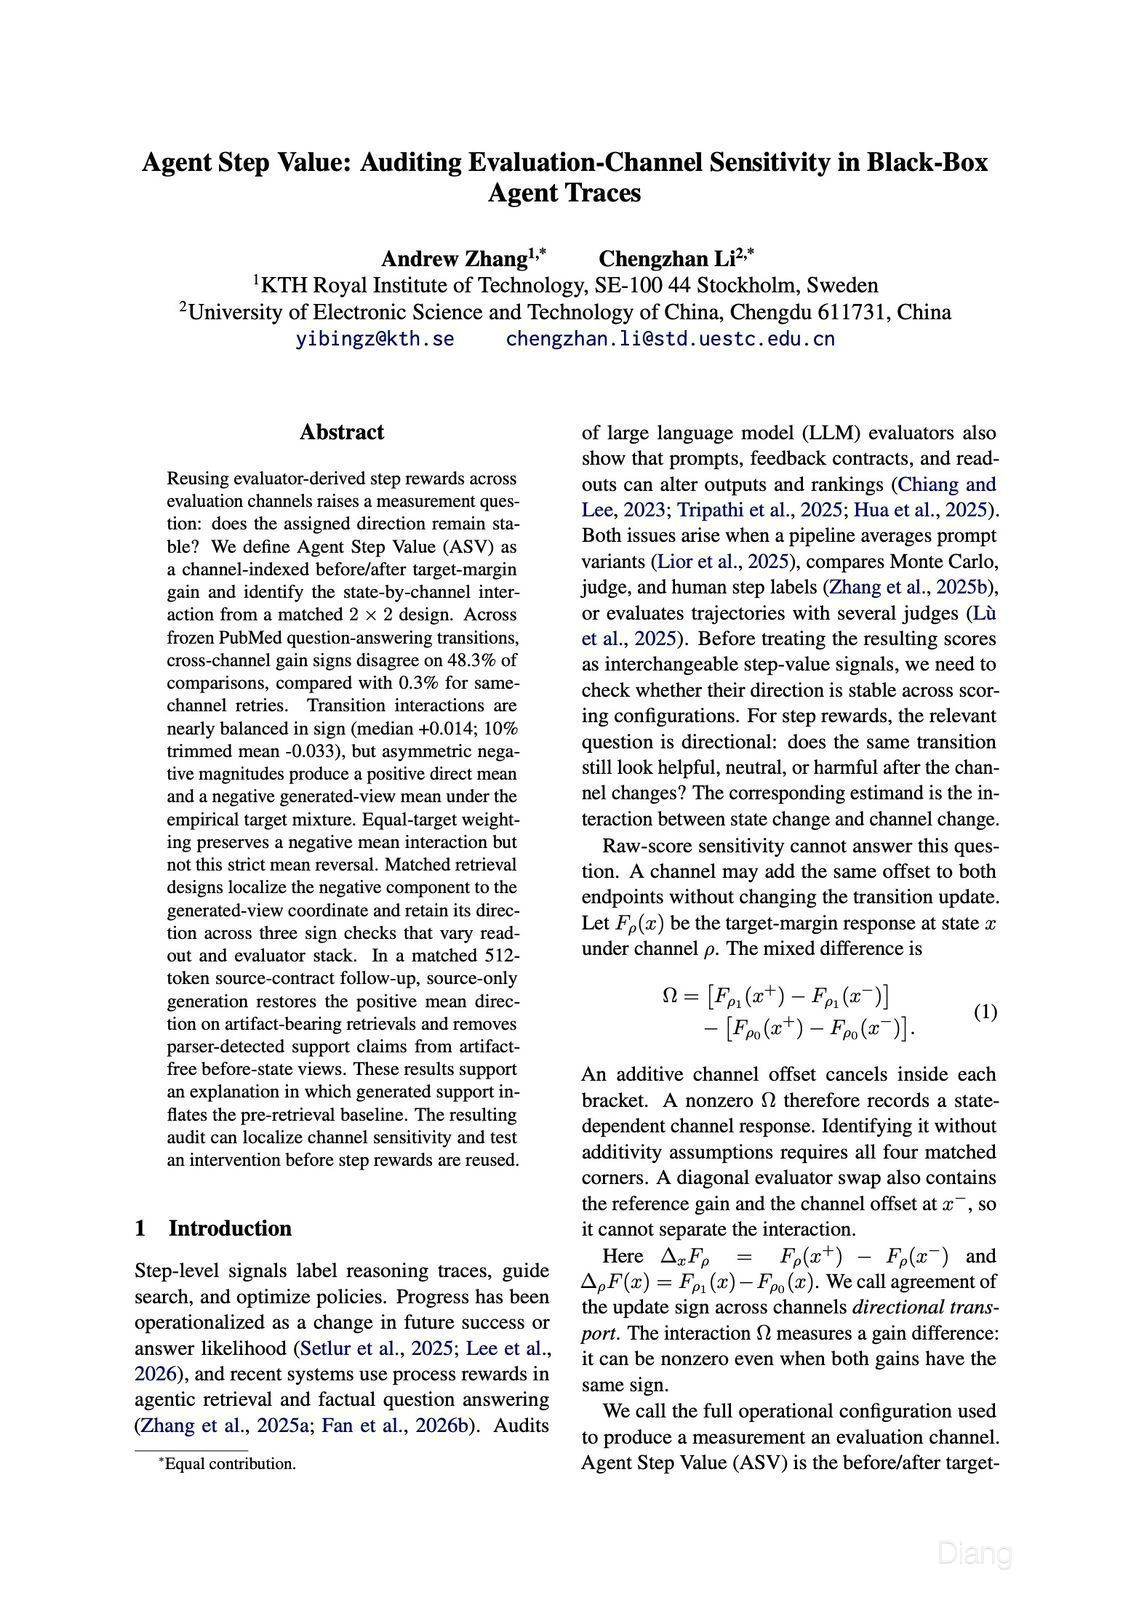
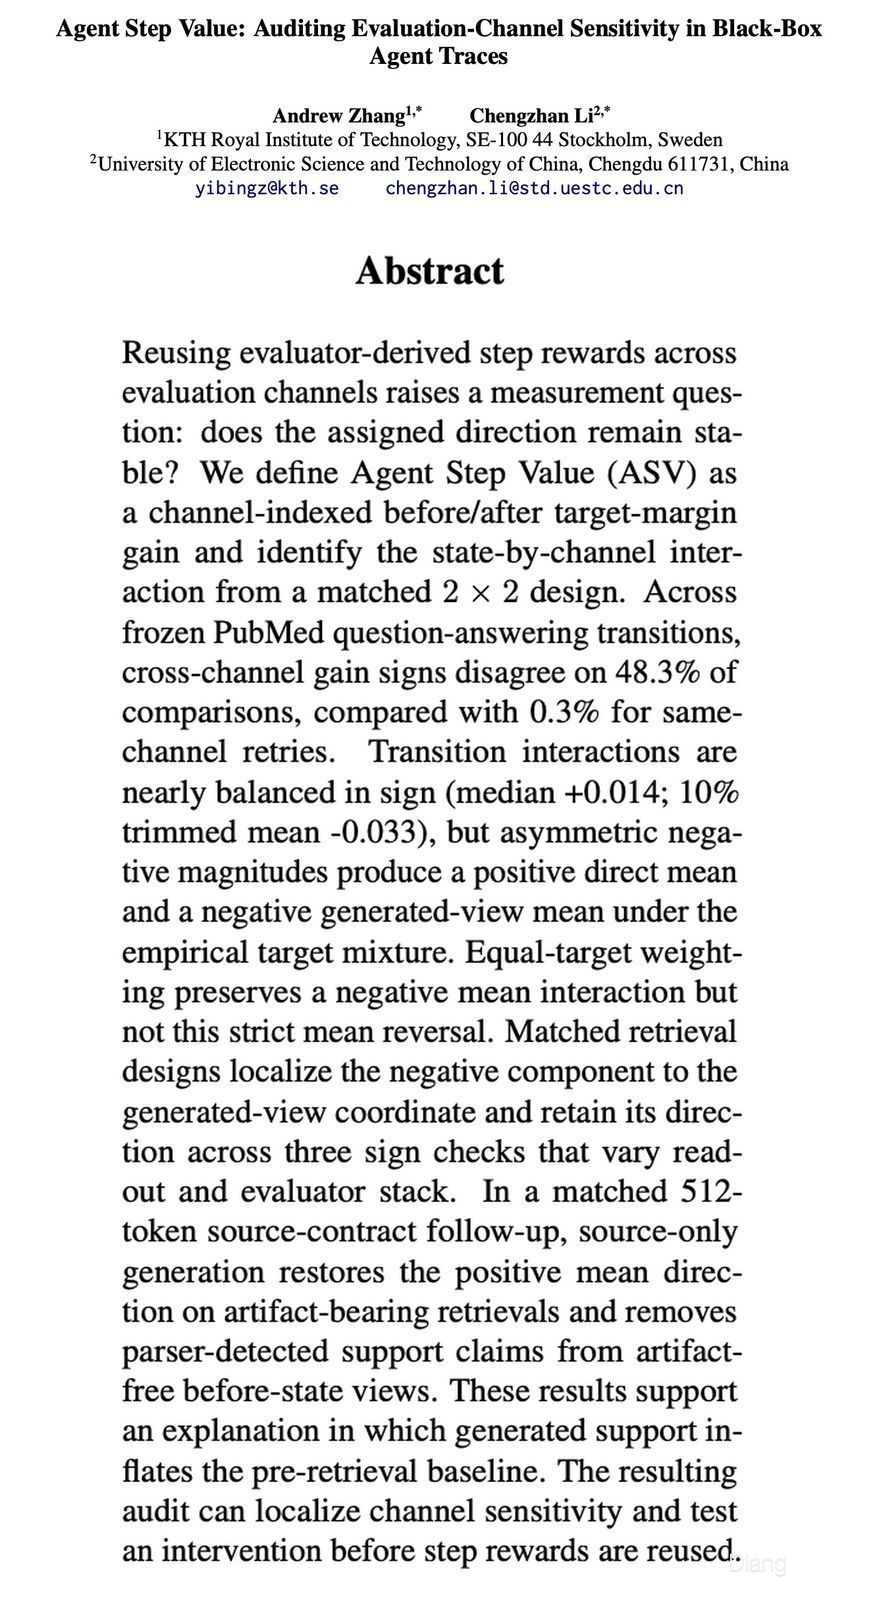
Site updated: 2026-10-14 17:55:52

Changed region(s): [[0.1229, 0.1562, 0.8908, 1.0], [0.0614, 0.0, 0.9215, 0.125]]

diff --git a/2026/10/14/agent-step-value/index.html b/2026/10/14/agent-step-value/index.html
@@ -22,21 +22,21 @@
 
 <script class="next-config" data-name="main" type="application/json">{"hostname":"leecdiang.github.io","root":"/","images":"/images","scheme":"Gemini","darkmode":true,"version":"8.25.0","exturl":false,"sidebar":{"position":"left","width_expanded":320,"width_dual_column":240,"display":"always","padding":18,"offset":12},"hljswrap":true,"codeblock":{"theme":{"light":"default","dark":"stackoverflow-dark"},"prism":{"light":"prism","dark":"prism-dark"},"copy_button":{"enable":true,"style":"Default"},"fold":{"enable":true,"height":500},"language":false},"bookmark":{"enable":false,"color":"#222","save":"auto"},"mediumzoom":false,"lazyload":true,"pangu":false,"comments":{"style":"tabs","active":"waline","storage":true,"lazyload":false,"nav":{"waline":{"text":"评论","order":-2}}},"stickytabs":false,"motion":{"enable":true,"async":false,"duration":200,"transition":{"menu_item":"fadeInDown","post_block":"fadeIn","post_header":"fadeInDown","post_body":"fadeInDown","coll_header":"fadeInLeft","sidebar":"fadeInUp"}},"i18n":{"placeholder":"Searching...","empty":"We didn't find any results for the search: ${query}","hits_time":"${hits} results found in ${time} ms","hits":"${hits} results found"}}</script><script src="/js/config.js" defer></script>
 
-    <meta name="description" content="Our REALM @ EMNLP 2026 poster studies why the same frozen agent step can receive opposite reward signs across evaluation channels, and how a matched audit can locate and test that sensitivity.">
+    <meta name="description" content="Why the same frozen agent step can receive opposite reward signs across evaluation channels, and how a matched audit can locate and test that sensitivity.">
 <meta property="og:type" content="article">
 <meta property="og:title" content="Agent Step Value: When the evaluator changes the value of a step">
 <meta property="og:url" content="https://leecdiang.github.io/2026/10/14/agent-step-value/index.html">
 <meta property="og:site_name" content="Beyond the Clock">
-<meta property="og:description" content="Our REALM @ EMNLP 2026 poster studies why the same frozen agent step can receive opposite reward signs across evaluation channels, and how a matched audit can locate and test that sensitivity.">
+<meta property="og:description" content="Why the same frozen agent step can receive opposite reward signs across evaluation channels, and how a matched audit can locate and test that sensitivity.">
 <meta property="og:locale" content="en_US">
-<meta property="og:image" content="https://leecdiang.github.io/2026/10/14/agent-step-value/paper-title-abstract.jpg">
+<meta property="og:image" content="https://leecdiang.github.io/2026/10/14/agent-step-value/paper-title.jpg">
 <meta property="og:image" content="https://leecdiang.github.io/2026/10/14/agent-step-value/asv-mechanics.jpg">
 <meta property="og:image" content="https://leecdiang.github.io/2026/10/14/agent-step-value/asv-pipeline.jpg">
 <meta property="og:image" content="https://leecdiang.github.io/2026/10/14/agent-step-value/effect-anatomy.jpg">
 <meta property="og:image" content="https://leecdiang.github.io/2026/10/14/agent-step-value/retrieval-decomposition.jpg">
 <meta property="og:image" content="https://leecdiang.github.io/2026/10/14/agent-step-value/matched-bridge-results.jpg">
 <meta property="article:published_time" content="2026-10-14T07:26:00.000Z">
-<meta property="article:modified_time" content="2026-10-14T09:14:38.831Z">
+<meta property="article:modified_time" content="2026-10-14T09:54:39.473Z">
 <meta property="article:author" content="LEEcDiang">
 <meta property="article:tag" content="Agent Step Value">
 <meta property="article:tag" content="EMNLP 2026">
@@ -44,7 +44,7 @@
 <meta property="article:tag" content="LLM Agents">
 <meta property="article:tag" content="REALM">
 <meta name="twitter:card" content="summary">
-<meta name="twitter:image" content="https://leecdiang.github.io/2026/10/14/agent-step-value/paper-title-abstract.jpg">
+<meta name="twitter:image" content="https://leecdiang.github.io/2026/10/14/agent-step-value/paper-title.jpg">
 
 
 <link rel="canonical" href="https://leecdiang.github.io/2026/10/14/agent-step-value/">
@@ -199,7 +199,7 @@
 
     <span hidden itemprop="post" itemscope itemtype="http://schema.org/CreativeWork">
       <meta itemprop="name" content="Agent Step Value: When the evaluator changes the value of a step | Beyond the Clock">
-      <meta itemprop="description" content="Our REALM @ EMNLP 2026 poster studies why the same frozen agent step can receive opposite reward signs across evaluation channels, and how a matched audit can locate and test that sensitivity.">
+      <meta itemprop="description" content="Why the same frozen agent step can receive opposite reward signs across evaluation channels, and how a matched audit can locate and test that sensitivity.">
     </span>
       <header class="post-header">
         <h1 class="post-title" itemprop="name headline">
@@ -212,15 +212,19 @@
   
 </div>
 
-            <div class="post-description">Our REALM @ EMNLP 2026 poster studies why the same frozen agent step can receive opposite reward signs across evaluation channels, and how a matched audit can locate and test that sensitivity.</div>
+            <div class="post-description">Why the same frozen agent step can receive opposite reward signs across evaluation channels, and how a matched audit can locate and test that sensitivity.</div>
         </div>
       </header>
 
     
     
     
-    <div class="post-body" itemprop="articleBody"><p>Our paper, <em>Agent Step Value: Auditing Evaluation-Channel Sensitivity in Black-Box Agent Traces</em>, has been accepted as a poster at the REALM Workshop at EMNLP 2026. Andrew Zhang and I contributed equally. <a class="glass-pill" href="https://arxiv.org/abs/2607.04419v5" target="_blank" rel="noopener"><i class="fas fa-file-alt"></i> Updated paper on arXiv</a></p>
-<div class="asv-paper-preview"><a href="https://arxiv.org/abs/2607.04419v5" target="_blank" rel="noopener"><img data-src="/2026/10/14/agent-step-value/paper-title-abstract.jpg" alt="First page of the camera-ready paper, including the title, authors, abstract, and introduction."></a></div>
+    <div class="post-body" itemprop="articleBody"><div class="asv-contribution">Andrew Zhang and I contributed equally.</div>
+<div class="asv-paper-panel">
+<div class="asv-paper-meta"><span>RESEARCH PAPER</span><span>arXiv:2607.04419 · v5 · DOI 10.48550/arXiv.2607.04419</span></div>
+<div class="asv-paper-preview"><a href="https://arxiv.org/abs/2607.04419v5" target="_blank" rel="noopener"><img data-src="/2026/10/14/agent-step-value/paper-title.jpg" alt="Agent Step Value: paper title, authors, and affiliations."></a></div>
+<div class="asv-paper-footer"><span>REALM Workshop · EMNLP 2026 · Poster</span><a class="glass-pill" href="https://arxiv.org/abs/2607.04419v5" target="_blank" rel="noopener"><i class="fas fa-file-alt" aria-hidden="true"></i> Read on arXiv</a></div>
+</div>
 <p>The question behind the paper is fairly simple: if an evaluator says an agent step helped, will it still say that after we change how it sees the step?</p>
 <p>In our frozen PubMed question-answering traces, cross-channel gain signs disagreed on <strong>48.3%</strong> of comparisons. Repeating the scoring within the same channel produced <strong>0.3%</strong> disagreement. The steps had not changed. The measurement channel had.</p>
 <p>The practical concern is what happens when we reuse a step reward. A step labeled helpful under one scoring setup can become harmful under another, even when we replay exactly the same states. This post follows that measurement problem from a small example to the retrieval experiments and a source-restricted follow-up. The workshop recording is at the end.</p>
@@ -275,12 +279,12 @@ $$</p>
 <p>Comparing a before-state score from one evaluator with an after-state score from another sounds tempting. It mixes two changes: the agent’s state and the evaluation channel.</p>
 <p>The matched design scores both endpoints under both channels. The interaction is the difference between the two gains:</p>
 <p>$$<br>
-\Omega = G^{\rho_1} - G^{\rho_0}<br>
-= [F_{\rho_1}(x^+) - F_{\rho_1}(x^-)]</p>
-<ul>
-<li>[F_{\rho_0}(x^+) - F_{\rho_0}(x^-)].<br>
-$$</li>
-</ul>
+\begin{aligned}<br>
+\Omega &amp;= G^{\rho_1} - G^{\rho_0} \<br>
+&amp;= [F_{\rho_1}(x^+) - F_{\rho_1}(x^-)] \<br>
+&amp;\quad - [F_{\rho_0}(x^+) - F_{\rho_0}(x^-)].<br>
+\end{aligned}<br>
+$$</p>
 <p>A constant channel offset cancels inside each bracket. A nonzero interaction records a channel response that depends on the state. Without structural restrictions, dropping any of the four scores leaves this interaction unidentified.</p>
 <p>The presentation uses this illustrative example:</p>
 <table>

diff --git a/categories/Silicon-Circuits/index.html b/categories/Silicon-Circuits/index.html
@@ -174,7 +174,7 @@
   <a class="cat-list-item" href="/2026/10/14/agent-step-value/" itemprop="url">
     <span class="cat-list-date">2026-10-14</span>
     <span class="cat-list-link" itemprop="name">Agent Step Value: When the evaluator changes the value of a step</span>
-    <span class="cat-list-desc">Our REALM @ EMNLP 2026 poster studies why the same frozen agent step can receive opposite reward signs across evaluation channels, and how a matched audit can locate and test that sensitivity.</span>
+    <span class="cat-list-desc">Why the same frozen agent step can receive opposite reward signs across evaluation channels, and how a matched audit can locate and test that sensitivity.</span>
   </a>
   <a class="cat-list-item" href="/2026/06/28/ai-compute-interconnect-part1-communication-wall/" itemprop="url">
     <span class="cat-list-date">2026-06-28</span>

diff --git a/categories/Silicon-Circuits/AI-Research/index.html b/categories/Silicon-Circuits/AI-Research/index.html
@@ -174,7 +174,7 @@
   <a class="cat-list-item" href="/2026/10/14/agent-step-value/" itemprop="url">
     <span class="cat-list-date">2026-10-14</span>
     <span class="cat-list-link" itemprop="name">Agent Step Value: When the evaluator changes the value of a step</span>
-    <span class="cat-list-desc">Our REALM @ EMNLP 2026 poster studies why the same frozen agent step can receive opposite reward signs across evaluation channels, and how a matched audit can locate and test that sensitivity.</span>
+    <span class="cat-list-desc">Why the same frozen agent step can receive opposite reward signs across evaluation channels, and how a matched audit can locate and test that sensitivity.</span>
   </a>
 
       </div>

diff --git a/intro/index.html b/intro/index.html
@@ -204,7 +204,7 @@
     
     
     <div class="post-body" itemprop="articleBody">
-          <p>Our REALM @ EMNLP 2026 poster studies why the same frozen agent step can receive opposite reward signs across evaluation channels, and how a matched audit can locate and test that sensitivity.</p>
+          <p>Why the same frozen agent step can receive opposite reward signs across evaluation channels, and how a matched audit can locate and test that sensitivity.</p>
           <!--noindex-->
             <div class="post-button">
               <a class="btn" href="/2026/10/14/agent-step-value/">
